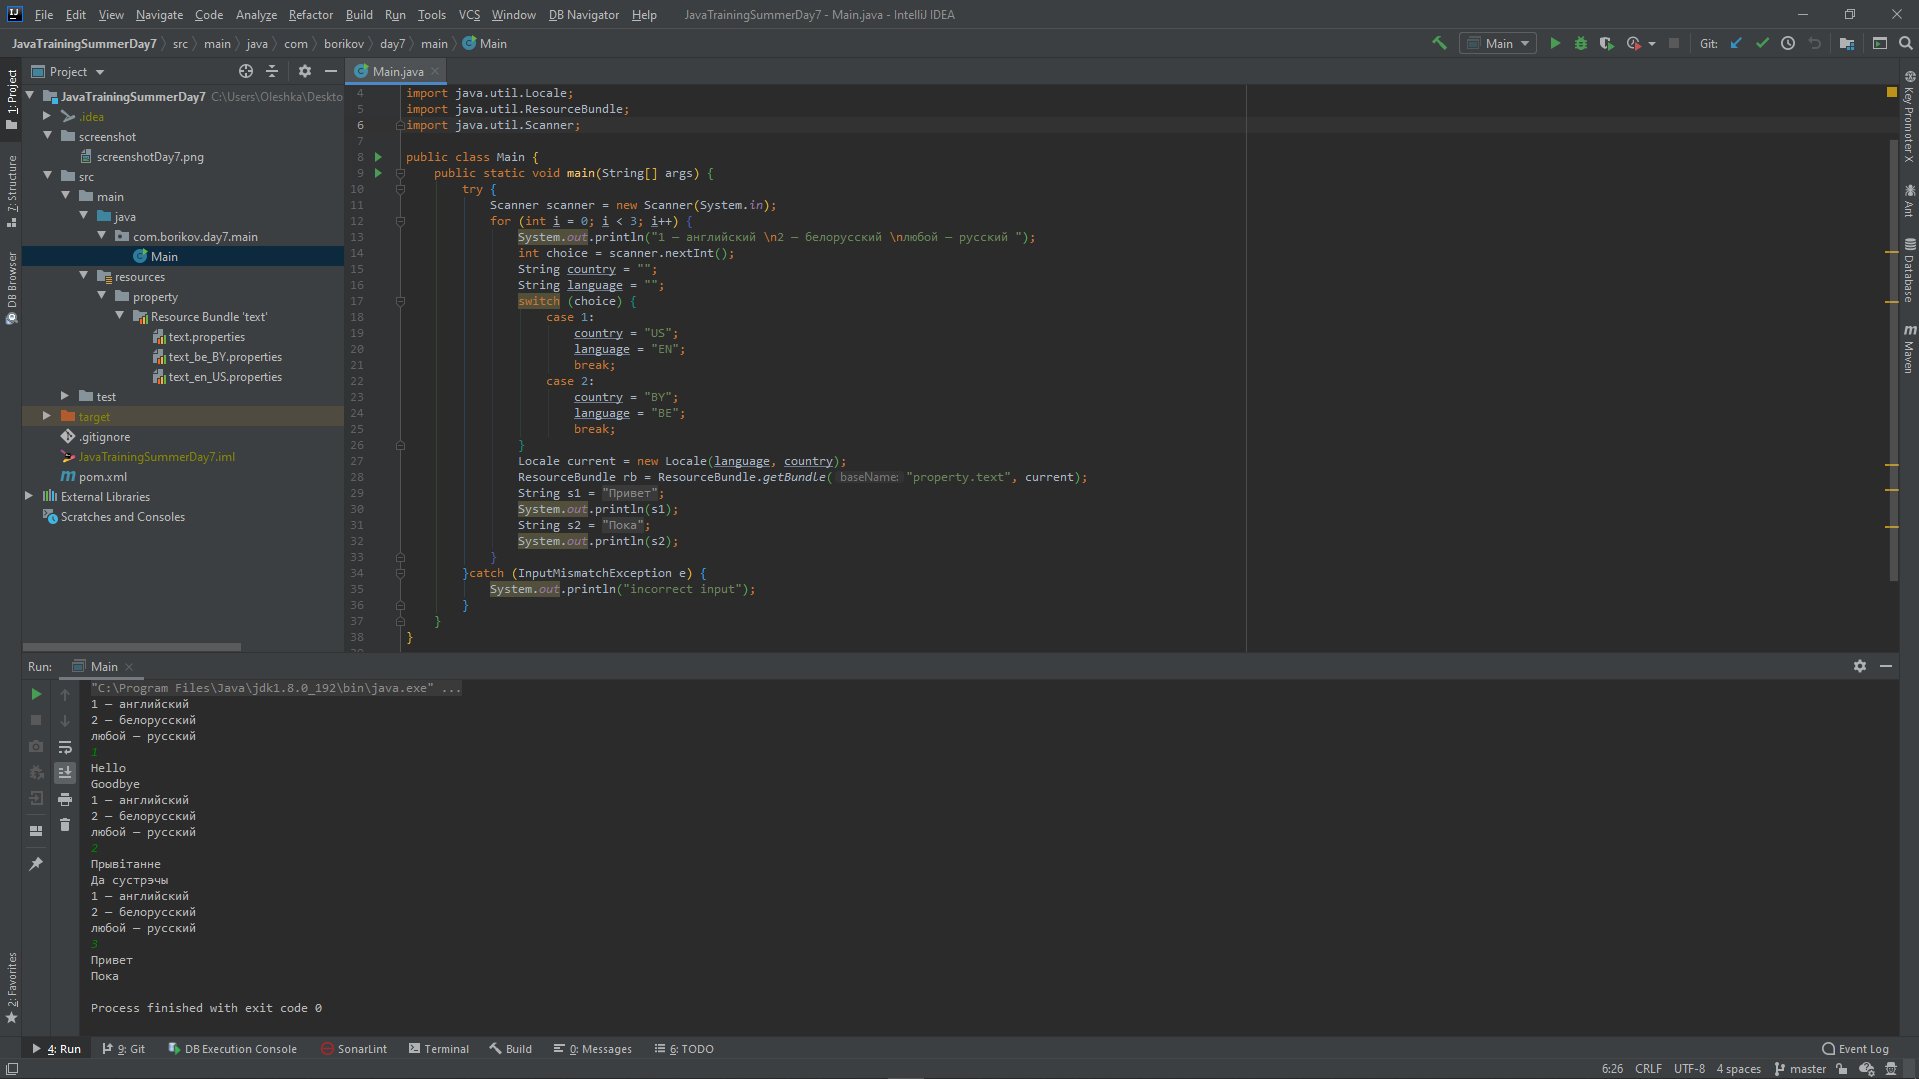
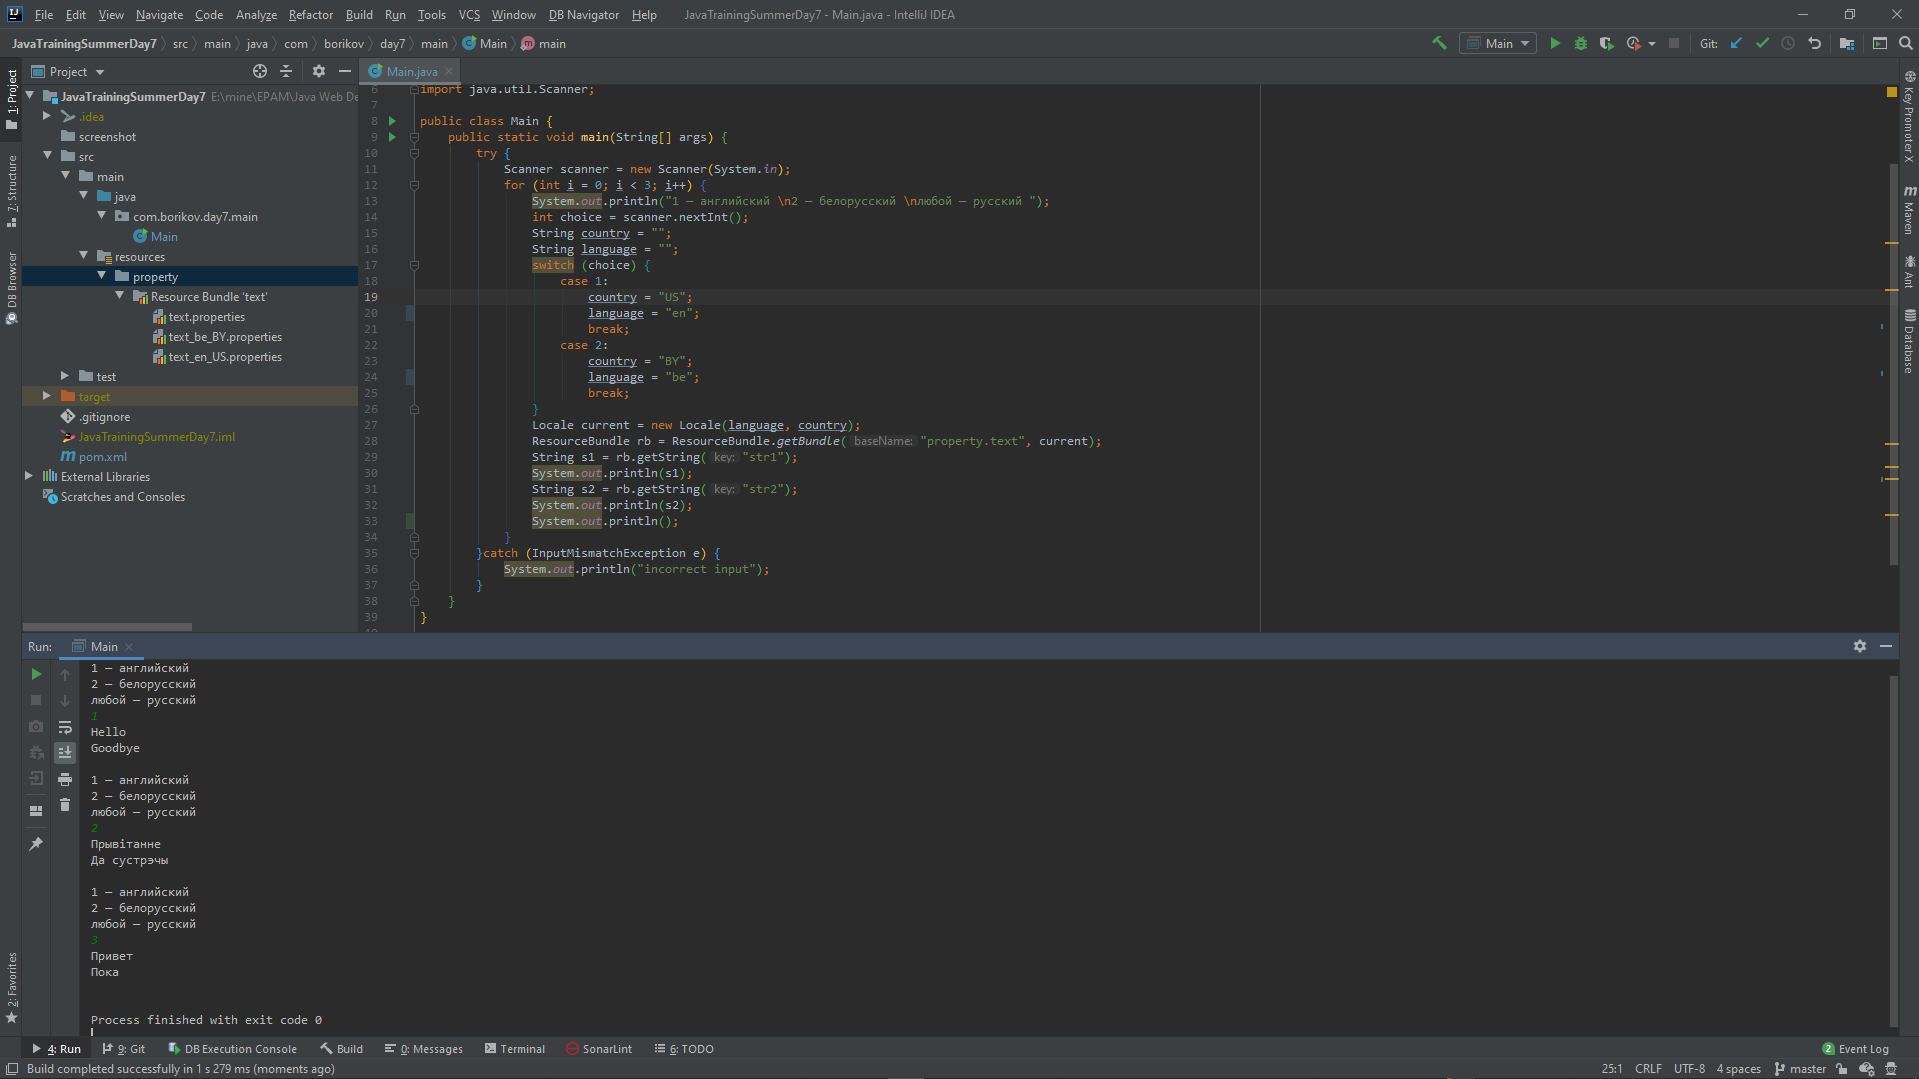
code refactor

diff --git a/src/main/java/com/borikov/day7/main/Main.java b/src/main/java/com/borikov/day7/main/Main.java
@@ -17,11 +17,11 @@ public class Main {
                 switch (choice) {
                     case 1:
                         country = "US";
-                        language = "EN";
+                        language = "en";
                         break;
                     case 2:
                         country = "BY";
-                        language = "BE";
+                        language = "be";
                         break;
                 }
                 Locale current = new Locale(language, country);
@@ -30,6 +30,7 @@ public class Main {
                 System.out.println(s1);
                 String s2 = rb.getString("str2");
                 System.out.println(s2);
+                System.out.println();
             }
         }catch (InputMismatchException e) {
             System.out.println("incorrect input");
